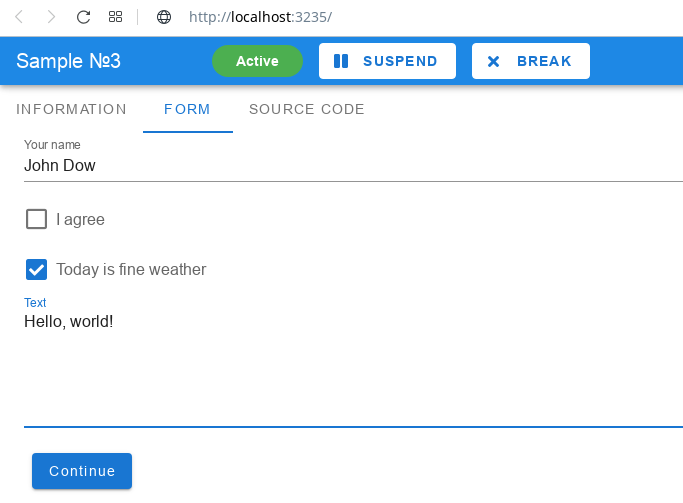
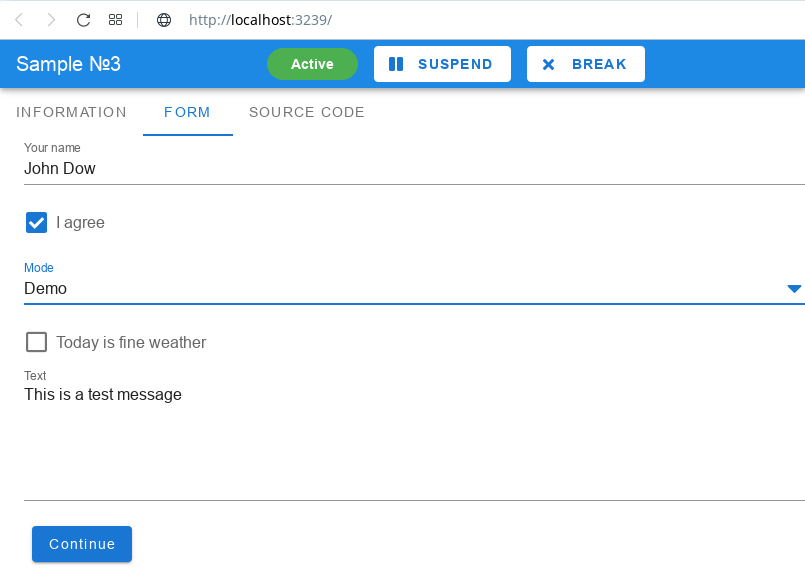
Update editor parameters

Changed region(s): [[0.0, 0.0, 1.0, 0.7157], [0.0307, 0.835, 1.0, 0.8648], [0.0307, 0.8946, 0.2152, 0.9841]]

diff --git a/ru/docs/editor-parameters.md b/ru/docs/editor-parameters.md
@@ -58,12 +58,30 @@ img:
 }
 ```
 
-* **list** - Описание колонок таблицы для параметра *Список*. Параметр *Список* позволяет пользователю добавлять в таблицу несколько записей, которые будут обрабатываться данным скриптом. Каждый элемент  *list* состоит из трех полей - *name*, *title* и *type*. В поле *name* указывается имя колонки, в поле *title* указывается наименование, а в поле *type* указывается числовой тип поля (0 - чекбокс, 1 - многострочный текст, 2 - однострочный текст).
+* **list** - Описание колонок таблицы для параметра *Список*. Параметр *Список* позволяет пользователю добавлять в таблицу несколько записей, которые будут обрабатываться данным скриптом. Каждый элемент  *list* состоит из четырех полей - *name*, *title*, *type* и *options*. В поле *name* указывается имя колонки, в поле *title* указывается наименование, а в поле *type* указывается числовой тип поля (0 - чекбокс, 1 - многострочный текст, 2 - однострочный текст, 3 - комбобокс). Поле *options* может содержать дополнительные настройки, которые описаны в этом разделе.
 
 ``` json
 {"list": [
   {"name": "var", "title": "Имя перемeнной", "type": 2},
   {"name": "value", "title": "Значение переменной", "type": 1},
+  {"name": "mode", "title": "Mode", "type": 3, "options": { "type": "str",
+      "items": [
+            {"title": "Debug", "value": "debug"},
+            {"title": "Demo", "value": "demo"},
+            {"title": "Release", "value": "release"}
+         ]
+      }}
+   ]
+}
+```
+
+* **output** - Массив строк. Используется, если требуется выводить специальный текст в *Списке* для чекбоксов. Например, *нет/да*, *не согласен/согласен* и т.д. Нулевой элемент соотвествует *false*, а первый элемент соответствует *true*.
+
+``` json
+{"list": [
+  {"name": "company", "title": "Компания", "type": 2},
+  {"name": "public", "title": "Публичная",
+      "type": 0, "options": {"output": ["no", "yes"]}}
    ]
 }
 ```

diff --git a/en/docs/editor-parameters.md b/en/docs/editor-parameters.md
@@ -63,12 +63,30 @@ Additional settings must be specified as a JSON object.
 }
 ```
 
-* **list** - Description of the table columns for the *List* parameter. The *list* parameter allows the user to add several records to the table that will be processed by this script. Each *list* element consists of three fields - *name*, *title* and *type*. The *name* field specifies the column name, the *title* field specifies the column title, and the *type* field specifies the numeric field type (0 - checkbox, 1 - multi-line text, 2 - single-line text).
+* **list** - Description of the table columns for the *List* parameter. The *list* parameter allows the user to add several records to the table that will be processed by this script. Each *list* element consists of four fields - *name*, *title*, *type* and *options*. The *name* field specifies the column name, the *title* field specifies the column title, and the *type* field specifies the numeric field type (0 - checkbox, 1 - multi-line text, 2 - single-line text, 3 - combobox).The *options* field may contain additional settings, which are described in this section.
 
 ``` json
 {"list": [
   {"name": "var", "title": "Variable name", "type": 2},
   {"name": "value", "title": "Value", "type": 1},
+  {"name": "mode", "title": "Mode", "type": 3, "options": { "type": "str",
+      "items": [
+            {"title": "Debug", "value": "debug"},
+            {"title": "Demo", "value": "demo"},
+            {"title": "Release", "value": "release"}
+         ]
+      }}
+   ]
+}
+```
+
+* **output** - Array of strings. It is used if you want to display special text in *List* for checkboxes. For example, *not/yes*, *disagree/agree*, etc. The zero element corresponds to *false*, and the first element corresponds to *true*.
+
+``` json
+{"list": [
+  {"name": "company", "title": "Company", "type": 2},
+  {"name": "public", "title": "Public",
+      "type": 0, "options": {"output": ["no", "yes"]}}
    ]
 }
 ```

diff --git a/ru/scripts/form.md b/ru/scripts/form.md
@@ -18,12 +18,16 @@ desc: Команда создаёт форму для ввода данных
 * **Однострочный текст**. Однострочное поле ввода.
 * **Чекбокс**. 
 * **Многострочный текст**. Многострочное поле ввода.
+* **Выбор**. Отображает комбобокс с вашими элементами. Они должны быть определены в поле *Дополнительные настройки*.
 
 **Текст**  
 Описание или наименование элемента формы.
 
 **Имя переменной**  
 Имя переменной привязанной к данному элементу. Если переменная определена, то элемент отоображает её текущее значение. После отправки формы переменная будет равна значению, которое указал пользователь.
+
+**Дополнительные настройки**  
+Здесь вы можете указать дополнительные настройки для элементов форм. Они описаны в [Параметрах редактора](/ru/docs/editor-parameters.html)
 
 [%dwnsample%](/samples/sample-3.yaml)
 

diff --git a/en/scripts/form.md b/en/scripts/form.md
@@ -26,12 +26,16 @@ Specify the type of form element
 * **Single text**. Single line input field.
 * **Checkbox**.
 * **Multi-line text**. Multiline input field.
+* **Select**. Displays the combo box with your elements. They should be defined in the *Additional settings* field.
 
 **Text**.  
 Description or name of the form element.
 
 **Variable name**  
 The name of the variable bound to this element. If the variable is defined, then the element displays its current value. After submitting the form, the variable will be equal to the value specified by the user.
+
+**Additional settings**  
+Here you can specify additional settings for form elements. These are described in [Editor Parameters](/docs/editor-parameters.html).
 
 [%dwnsample%](/samples/sample-3.yaml)
 
